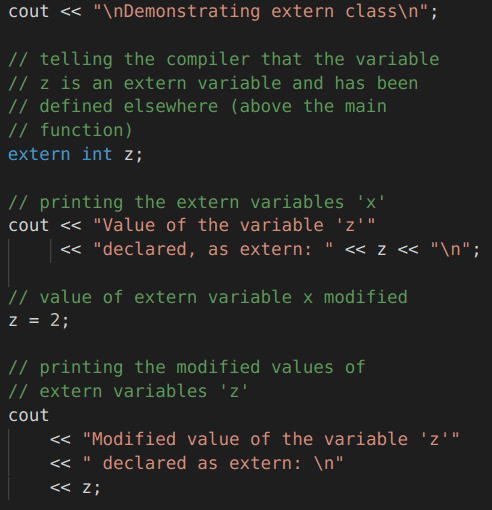
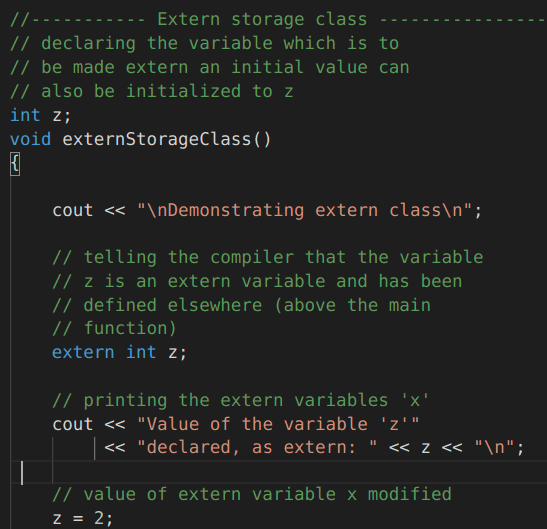
modified:   README.md

diff --git a/README.md b/README.md
@@ -163,7 +163,7 @@ Storage Classes in C++ with Examples
 |:---------------:|:---------------:|
 |<img  src="images/Day_06_01.png" /> |<img  src="images/Day_06_02.png" />|
 |<img  src="images/Day_06_03.png" /> |<img  src="images/Day_06_04.png" />|
-|<img  src="images/Day_06_05.png" /> |<img  src="images/Day_06_06.png" />|
+|<img  src="images/Day_06_05.png" /> |<img  src="images/Day_06_05_02.png" /><img  src="images/Day_06_06.png" />|
 |<img  src="images/Day_06_07.png" /> |<img  src="images/Day_06_08.png" />|
 |<img  src="images/Day_06_09.png" /> |<img  src="images/Day_06_10.png" />|
 
